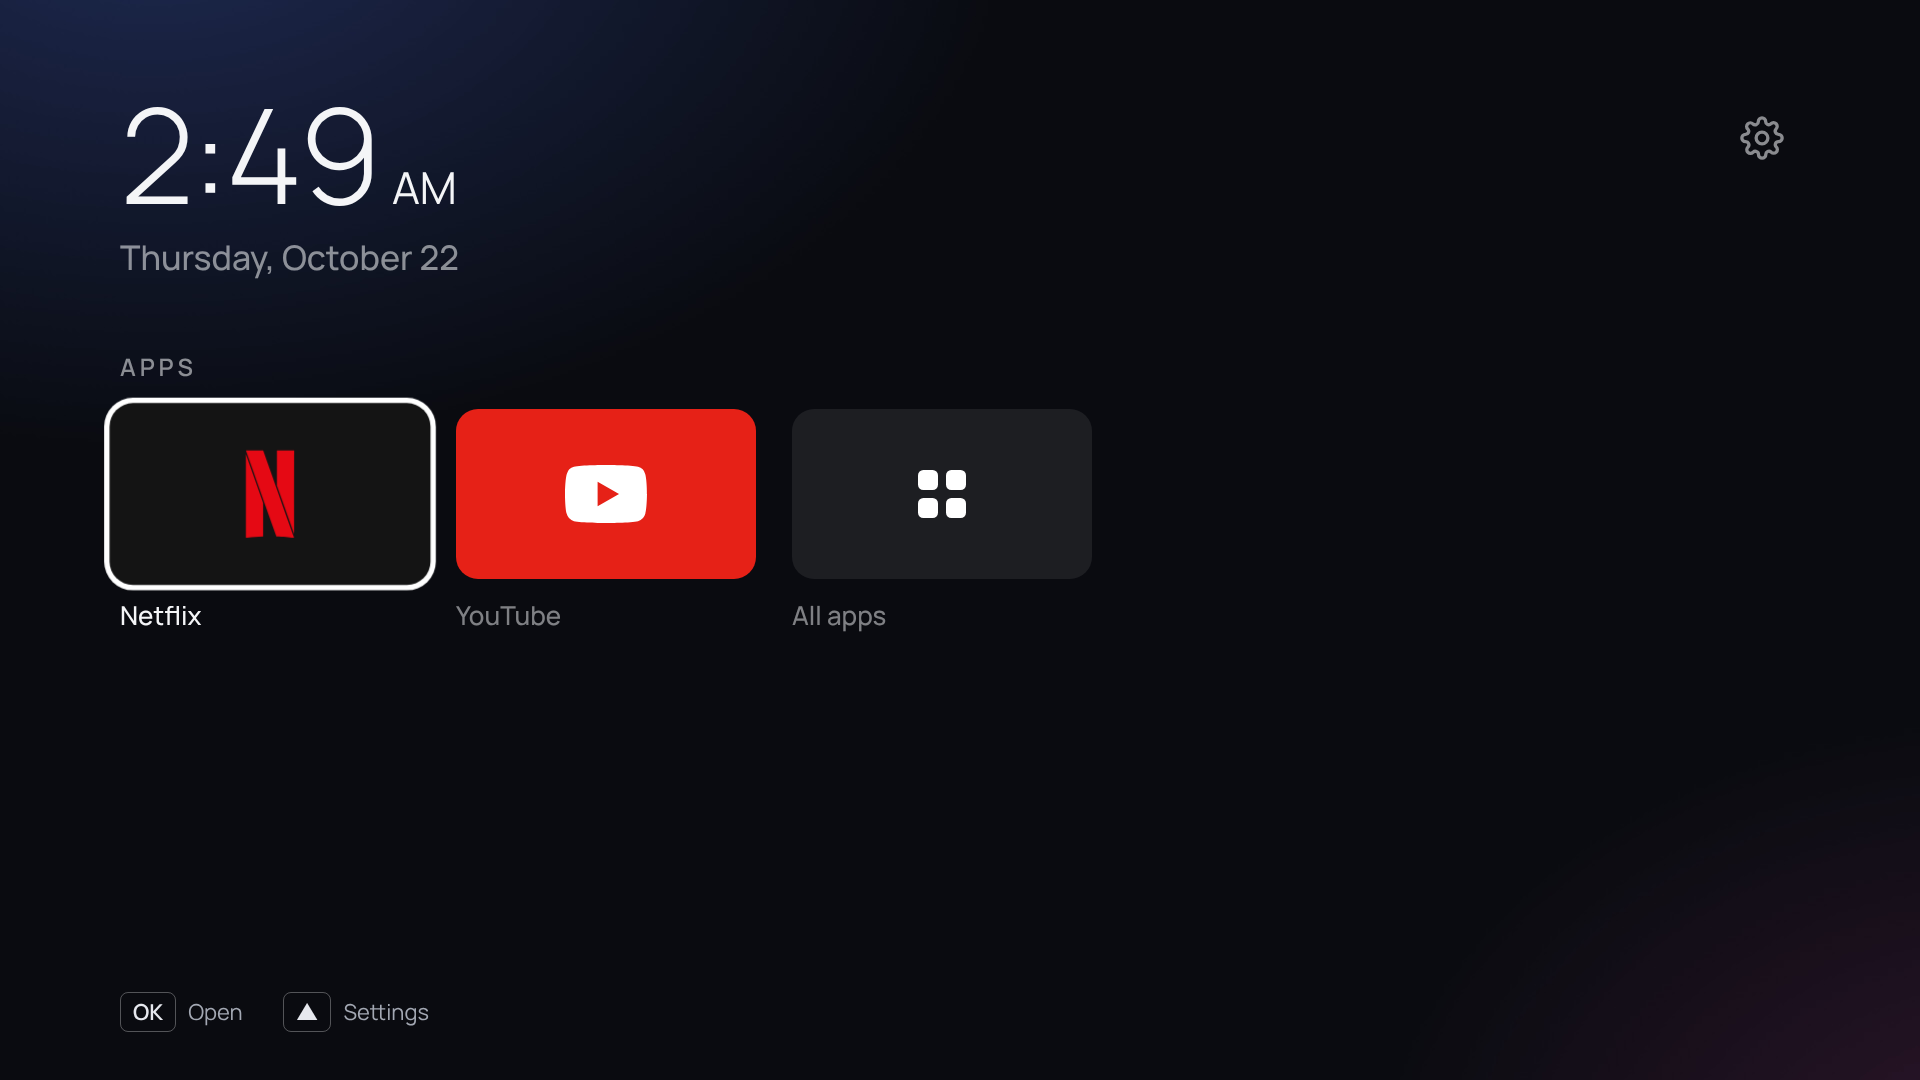
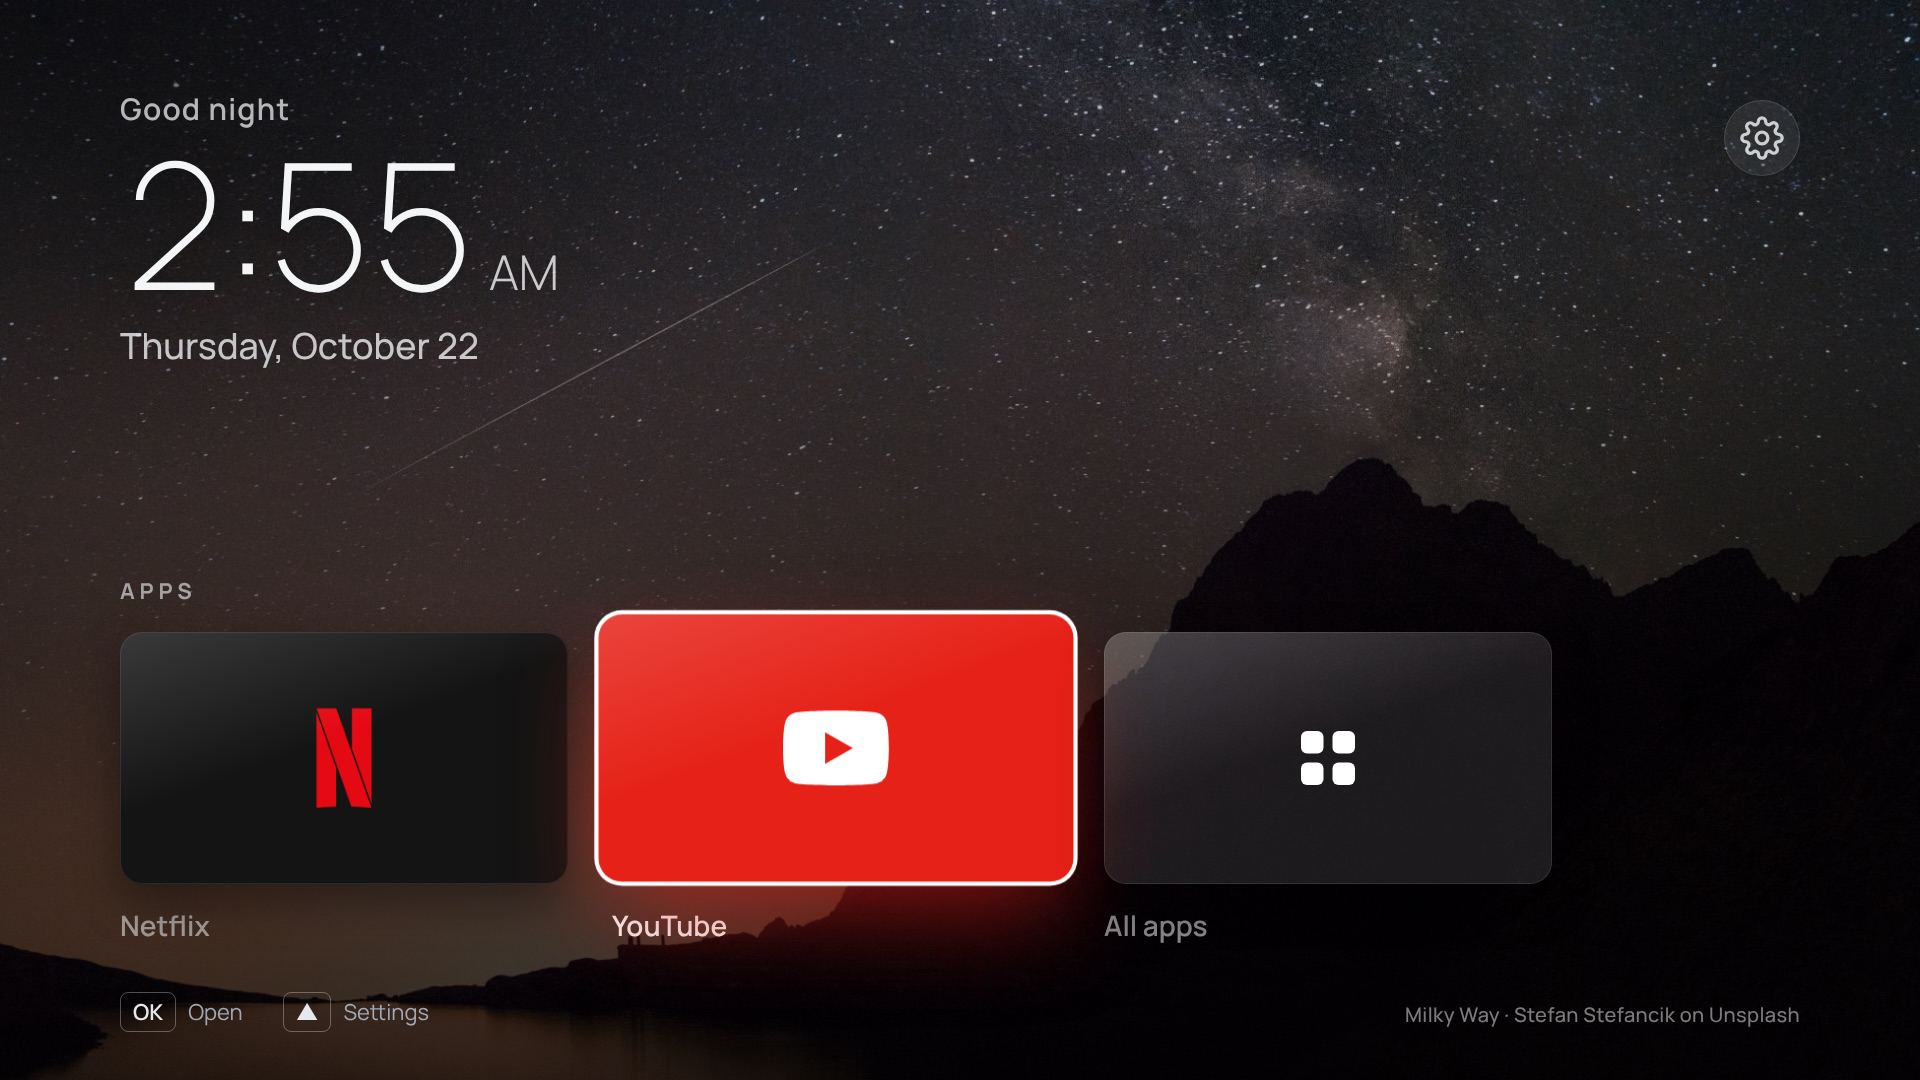
TV launcher: cinematic home screen
Photo wallpapers on by default, rotating hourly with a crossfade; a
greeting above a larger clock; 16:9 tiles that lift and glow in their
brand colour when focused; the photo credit on Home instead of a toast.
Adding consoles falls back to the compact two-row layout. Settings rows
are tightened so the last one clears the remote hints.

Claude-Session: https://claude.ai/code/session_01HJ5oHdQN6vvSZVXmDXZJ1M

diff --git a/apps/tv-launcher/src/css/style.css b/apps/tv-launcher/src/css/style.css
@@ -954,3 +954,175 @@ html.preview, html.preview body {
     opacity: 0;
     transition: opacity 10000ms linear;
 }
+
+/*
+ * ---------- Home, cinematic ----------
+ *
+ * Layered over the rules above. Everything here stays inside the measured budget: soft
+ * box-shadows (free), opacity and transform transitions on elements that already have their own
+ * layer, and no runtime gradients bigger than a tile. The tile sheen is a small static gradient
+ * rasterised once with its tile; if it ever costs frames, the Lab render probe will show it.
+ */
+
+#bg-next {
+    position: absolute;
+    top: 0;
+    left: 0;
+    width: 1920px;
+    height: 1080px;
+    background: center / cover no-repeat;
+    opacity: 0;
+    will-change: opacity;
+    transition: opacity 1.2s ease-in-out;   /* keep in step with FADE_MS in wallpaper.js */
+}
+
+#bg-next.in { opacity: 1; }
+
+@keyframes rise {
+    from { opacity: 0; transform: translateY(28px); }
+    to { opacity: 1; transform: translateY(0); }
+}
+
+#home .clock,
+#home .shelf,
+#home .gear,
+#home .photo-credit {
+    animation: rise 0.7s cubic-bezier(0.2, 0.8, 0.2, 1) both;
+}
+
+#home .gear { animation-delay: 0.05s; }
+#home #apps-section { animation-delay: 0.12s; }
+#home #inputs-section { animation-delay: 0.2s; }
+#home .photo-credit { animation-delay: 0.3s; }
+
+#greeting {
+    margin-bottom: 6px;
+    font-size: 30px;
+    font-weight: 600;
+    letter-spacing: 0.04em;
+    color: rgba(244, 245, 247, 0.72);
+}
+
+#greeting:empty { display: none; }
+
+#time {
+    font-size: 176px;
+    font-weight: 200;
+    letter-spacing: -6px;
+    font-variant-numeric: tabular-nums;
+    text-shadow: 0 6px 40px rgba(0, 0, 0, 0.35);
+}
+
+#time-suffix {
+    margin-left: 18px;
+    font-size: 48px;
+    font-weight: 300;
+    color: rgba(244, 245, 247, 0.8);
+}
+
+#date {
+    margin-top: 10px;
+    font-size: 36px;
+    color: rgba(244, 245, 247, 0.78);
+}
+
+#apps-section { top: 576px; }
+
+.shelf h2 {
+    font-size: 22px;
+    font-weight: 700;
+    letter-spacing: 0.22em;
+    color: rgba(244, 245, 247, 0.6);
+}
+
+/* Bigger 16:9 tiles when the apps row has the lower half to itself. */
+#home .app {
+    width: 448px;
+    margin-right: 44px;
+}
+
+#home .tile { height: 252px; }
+
+#home .app .mark {
+    top: 30%;
+    left: 30%;
+    width: 40%;
+    height: 40%;
+}
+
+.row-track .tile {
+    box-shadow: inset 0 0 0 1px rgba(255, 255, 255, 0.1), 0 18px 44px rgba(0, 0, 0, 0.4);
+    transition: transform 0.22s cubic-bezier(0.2, 0.8, 0.2, 1);
+}
+
+.row-track .tile::after {
+    content: "";
+    position: absolute;
+    top: 0;
+    right: 0;
+    bottom: 0;
+    left: 0;
+    border-radius: inherit;
+    background: linear-gradient(160deg, rgba(255, 255, 255, 0.16), rgba(255, 255, 255, 0) 45%);
+    pointer-events: none;
+}
+
+.row-track .app.focused .tile,
+.row-track .input.focused .tile {
+    transform: translateY(-10px) scale(1.06);
+    box-shadow: 0 0 0 4px var(--ring), 0 40px 90px -10px var(--glow, rgba(255, 255, 255, 0.3));
+}
+
+#home .app .label {
+    margin-top: 22px;
+    font-size: 28px;
+    font-weight: 600;
+    color: rgba(244, 245, 247, 0.55);
+    transition: color 0.2s;
+}
+
+#home .app.focused .label { color: var(--fg); }
+
+.all-tile {
+    background: rgba(255, 255, 255, 0.1);
+}
+
+#home .all-tile svg {
+    width: 72px;
+    height: 72px;
+    margin: -36px 0 0 -36px;
+}
+
+.gear {
+    background: rgba(255, 255, 255, 0.08);
+    box-shadow: inset 0 0 0 1px rgba(255, 255, 255, 0.14);
+    color: rgba(244, 245, 247, 0.8);
+}
+
+.gear.focused {
+    box-shadow: 0 16px 40px rgba(0, 0, 0, 0.4);
+}
+
+.photo-credit {
+    position: absolute;
+    right: var(--edge);
+    bottom: 52px;
+    font-size: 20px;
+    font-weight: 500;
+    letter-spacing: 0.02em;
+    color: rgba(244, 245, 247, 0.5);
+}
+
+/* With consoles there are two rows to fit: back to the compact layout. */
+#home.has-inputs #greeting { display: none; }
+#home.has-inputs #time { font-size: 132px; letter-spacing: -3px; }
+#home.has-inputs #time-suffix { font-size: 44px; }
+#home.has-inputs #apps-section { top: 350px; }
+#home.has-inputs .app { width: 300px; margin-right: 36px; }
+#home.has-inputs .tile { height: 170px; }
+#home.has-inputs .input .tile { height: 190px; }
+#home.has-inputs .app .mark { top: 26%; left: 22%; width: 56%; height: 48%; }
+
+/* Settings: eight rows have to clear the remote hints at the bottom. */
+#settings .settings-list { top: 206px; }
+#settings .setting-row { padding-top: 18px; padding-bottom: 18px; margin-bottom: 10px; }

diff --git a/apps/tv-launcher/src/js/home.js b/apps/tv-launcher/src/js/home.js
@@ -59,10 +59,31 @@
         img.src = path.charAt(0) === '/' ? 'file://' + path : path;
     }
 
+    // Colour of the soft glow under a focused tile: the brand's most vivid colour, so a dark
+    // tile with a coloured mark (Netflix) glows red rather than grey.
+    function glowOf(brand) {
+        var hexes = String(brand.bg).match(/#[0-9a-f]{6}/gi) || [];
+        var base = hexes[hexes.length - 1];
+        if (!base || luminance(base) < 0.08) base = brand.fg;
+        return rgba(base, 0.55);
+    }
+
+    function luminance(hex) {
+        var n = parseInt(hex.slice(1), 16);
+        return (0.2126 * (n >> 16 & 255) + 0.7152 * (n >> 8 & 255) + 0.0722 * (n & 255)) / 255;
+    }
+
+    function rgba(hex, a) {
+        if (!/^#[0-9a-f]{6}$/i.test(hex)) return 'rgba(255,255,255,' + a + ')';
+        var n = parseInt(hex.slice(1), 16);
+        return 'rgba(' + (n >> 16 & 255) + ',' + (n >> 8 & 255) + ',' + (n & 255) + ',' + a + ')';
+    }
+
     function tileFace(item) {
         var tile = el('div', 'tile');
         if (item.brand) {
             tile.style.background = item.brand.bg;
+            tile.style.setProperty('--glow', glowOf(item.brand));
             if (item.brand.text) {
                 var word = el('div', 'wordmark', item.brand.text);
                 word.style.color = item.brand.fg;
@@ -72,6 +93,7 @@
             }
         } else {
             tile.style.background = 'hsl(' + hue(item.label) + ',32%,24%)';
+            tile.style.setProperty('--glow', 'hsla(' + hue(item.label) + ',60%,55%,0.45)');
             var mono = el('div', 'mono', initials(item.label).toUpperCase());
             tile.appendChild(mono);
             if (item.iconPath) tryIcon(tile, mono, item.iconPath);
@@ -178,6 +200,8 @@
             if (!input.hidden) row2.appendChild(inputTile(input));
         });
         $('inputs-section').classList.toggle('hidden', !row2.children.length);
+        // Without consoles the apps row gets the whole lower half (bigger, cinematic tiles).
+        $('home').classList.toggle('has-inputs', row2.children.length > 0);
         applyInputStatus();
         if (UI.isVisible('home')) UI.refresh();
     }
@@ -293,8 +317,8 @@
     }
 
     function nextWallpaper() {
-        var w = Wallpaper.next();
-        if (w) UI.toast(w.title + (w.credit ? ' · ' + w.credit : ''));
+        // The photo's title and credit update in the bottom-right corner of Home.
+        Wallpaper.next();
     }
 
     // Colour keys are hidden shortcuts; everything is also reachable from Settings.
@@ -326,6 +350,17 @@
         $('time-main').textContent = t.time;
         $('time-suffix').textContent = t.suffix;
         $('date').textContent = Appearance.date(d);
+        $('greeting').textContent = greeting(d);
+    }
+
+    // English only; other date languages simply show no greeting.
+    function greeting(d) {
+        if (!/^en/.test(Prefs.get().appearance.locale)) return '';
+        var h = d.getHours();
+        if (h < 5) return 'Good night';
+        if (h < 12) return 'Good morning';
+        if (h < 18) return 'Good afternoon';
+        return 'Good evening';
     }
 
     // The TV takes ~4 s to list its ~450 apps, so Home is drawn from the last list we saw

diff --git a/apps/tv-launcher/src/js/wallpaper.js b/apps/tv-launcher/src/js/wallpaper.js
@@ -24,19 +24,48 @@
         return find(key) || find('15m');
     }
 
+    var FADE_MS = 1200;   // keep in step with #bg-next in style.css
+
     function bg() { return document.getElementById('bg'); }
+
+    function caption(w) {
+        var el = document.getElementById('photo-credit');
+        if (el) el.textContent = w ? w.title + (w.credit ? '  ·  ' + w.credit : '') : '';
+    }
+
+    // Fades the new photo in on a second layer, then hands it to #bg. Only opacity animates, so
+    // the compositor does the work; nothing repaints mid-fade.
+    function crossfade(url, t) {
+        var next = document.getElementById('bg-next');
+        if (!next || !bg().style.backgroundImage) {
+            bg().style.backgroundImage = url;
+            return;
+        }
+        next.style.backgroundImage = url;
+        void next.offsetWidth;
+        next.classList.add('in');
+        setTimeout(function () {
+            if (t !== token) return;
+            bg().style.backgroundImage = url;
+            next.style.transition = 'none';
+            next.classList.remove('in');
+            void next.offsetWidth;
+            next.style.transition = '';
+        }, FADE_MS + 50);
+    }
 
     // The next image is decoded before it replaces the current one, so the screen never flashes empty.
     // No wallpaper falls back to the stylesheet's plain gradient (img/bg.jpg).
     function display(w) {
         var t = ++token;
+        caption(w);
         if (!w) {
             bg().style.backgroundImage = '';
             return;
         }
         var img = new Image();
         img.onload = function () {
-            if (t === token) bg().style.backgroundImage = 'url("' + w.file + '")';
+            if (t === token) crossfade('url("' + w.file + '")', t);
         };
         img.onerror = function () { DevLog.log('Wallpaper failed to load: ' + w.file); };
         img.src = w.file;

diff --git a/apps/tv-launcher/src/js/prefs.js b/apps/tv-launcher/src/js/prefs.js
@@ -17,10 +17,10 @@
                 preset: cfg.sound && cfg.sound.preset || 'soft'
             },
             wallpaper: {
-                mode: theme.wallpaper ? 'photo' : 'off',   // 'off' | 'photo' | 'rotate'
+                mode: !theme.wallpaper ? 'off' : theme.rotate ? 'rotate' : 'photo',   // 'off' | 'photo' | 'rotate'
                 photo: theme.wallpaper || 'forest',
-                interval: '15m',        // see Wallpaper.INTERVALS
-                lastChange: 0
+                interval: theme.rotate || '15m',   // see Wallpaper.INTERVALS
+                lastChange: Date.now()  // so the first photo gets its full turn
             },
             screensaver: {
                 enabled: true,

diff --git a/apps/tv-launcher/src/index.html b/apps/tv-launcher/src/index.html
@@ -9,9 +9,11 @@
 <body>
     <div id="stage">
         <div id="bg"></div>
+        <div id="bg-next"></div>
 
         <section id="home" class="view">
             <header class="clock">
+                <div id="greeting"></div>
                 <div id="time"><span id="time-main"></span><span id="time-suffix"></span></div>
                 <div id="date"></div>
             </header>
@@ -29,6 +31,7 @@
                 <h2>Consoles</h2>
                 <div class="row-viewport"><div id="inputs-row" class="row-track"></div></div>
             </div>
+            <div id="photo-credit" class="photo-credit"></div>
         </section>
 
         <section id="all" class="view page hidden">

diff --git a/apps/tv-launcher/src/js/config.js b/apps/tv-launcher/src/js/config.js
@@ -35,7 +35,10 @@ window.LAUNCHER_CONFIG = {
     theme: {
         // Starting wallpaper (key from js/wallpapers.js), or null for none (plain gradient).
         // Changed from Settings → Background; the TV remembers the choice.
-        wallpaper: null
+        wallpaper: 'milky-way',
+        // Rotate through all the photos at this interval (a key from Wallpaper.INTERVALS),
+        // or null to keep the one above.
+        rotate: '1h'
     },
 
     /*

diff --git a/apps/tv-launcher/src/js/appearance.js b/apps/tv-launcher/src/js/appearance.js
@@ -10,7 +10,8 @@
     ];
 
     var LOCALES = [
-        { key: 'en-GB', label: 'English' },
+        { key: 'en-US', label: 'English (US)' },
+        { key: 'en-GB', label: 'English (UK)' },
         { key: 'es-ES', label: 'Español' },
         { key: 'fr-FR', label: 'Français' }
     ];

diff --git a/apps/tv-launcher/README.md b/apps/tv-launcher/README.md
@@ -1,9 +1,9 @@
 # TV Launcher
 
 A quiet home screen for the living-room **Samsung The Frame QN65LS03B** (2022, Tizen 6.5): a
-clock, Netflix, YouTube, and nothing else.
+clock over a rotating photo, Netflix, YouTube, and nothing else.
 
-![Home screen: clock, Netflix and YouTube tiles, All apps](docs/preview.png)
+![Home screen: greeting and clock over the Milky Way wallpaper, with Netflix, YouTube (focused, glowing red) and All apps tiles](docs/preview.png)
 
 Based on [NelsonEU/arn0-tv](https://github.com/NelsonEU/arn0-tv) (MIT, see [LICENSE](LICENSE)),
 which was built and tested on a 2022 Samsung Q70B, the same Tizen 6.5 generation as this Frame.
@@ -17,6 +17,8 @@ The full upstream reference (remote shortcuts, settings, wallpapers, HDMI, perfo
 | Apps row | Netflix and YouTube, matched by any of Samsung's known app ids or the exact store name |
 | Consoles row | Empty, so it is hidden. Add consoles later in Settings → Consoles |
 | Locale / clock | `en-US`, 12-hour clock by default |
+| Look | Photo wallpapers on by default (rotating hourly, crossfading), a greeting above a larger clock, big 16:9 tiles that lift and glow in the brand's colour when focused, the photo's credit bottom-right. With consoles added, Home switches back to the compact two-row layout |
+| Settings | Rows tightened so the last one no longer sits under the remote hints (also happens upstream) |
 | Tizen app id | `KchTvLnchr.Launcher` (package `KchTvLnchr`), shown as "TV Launcher" |
 | Build output | `dist/tv-launcher.wgt` |
 | Not copied | `native/` and the Home-button / power-on guide. Upstream only tested that on one Q70B and calls The Frame untested; it rewrites undocumented TV preferences. The launcher works fine opened from the app list |
